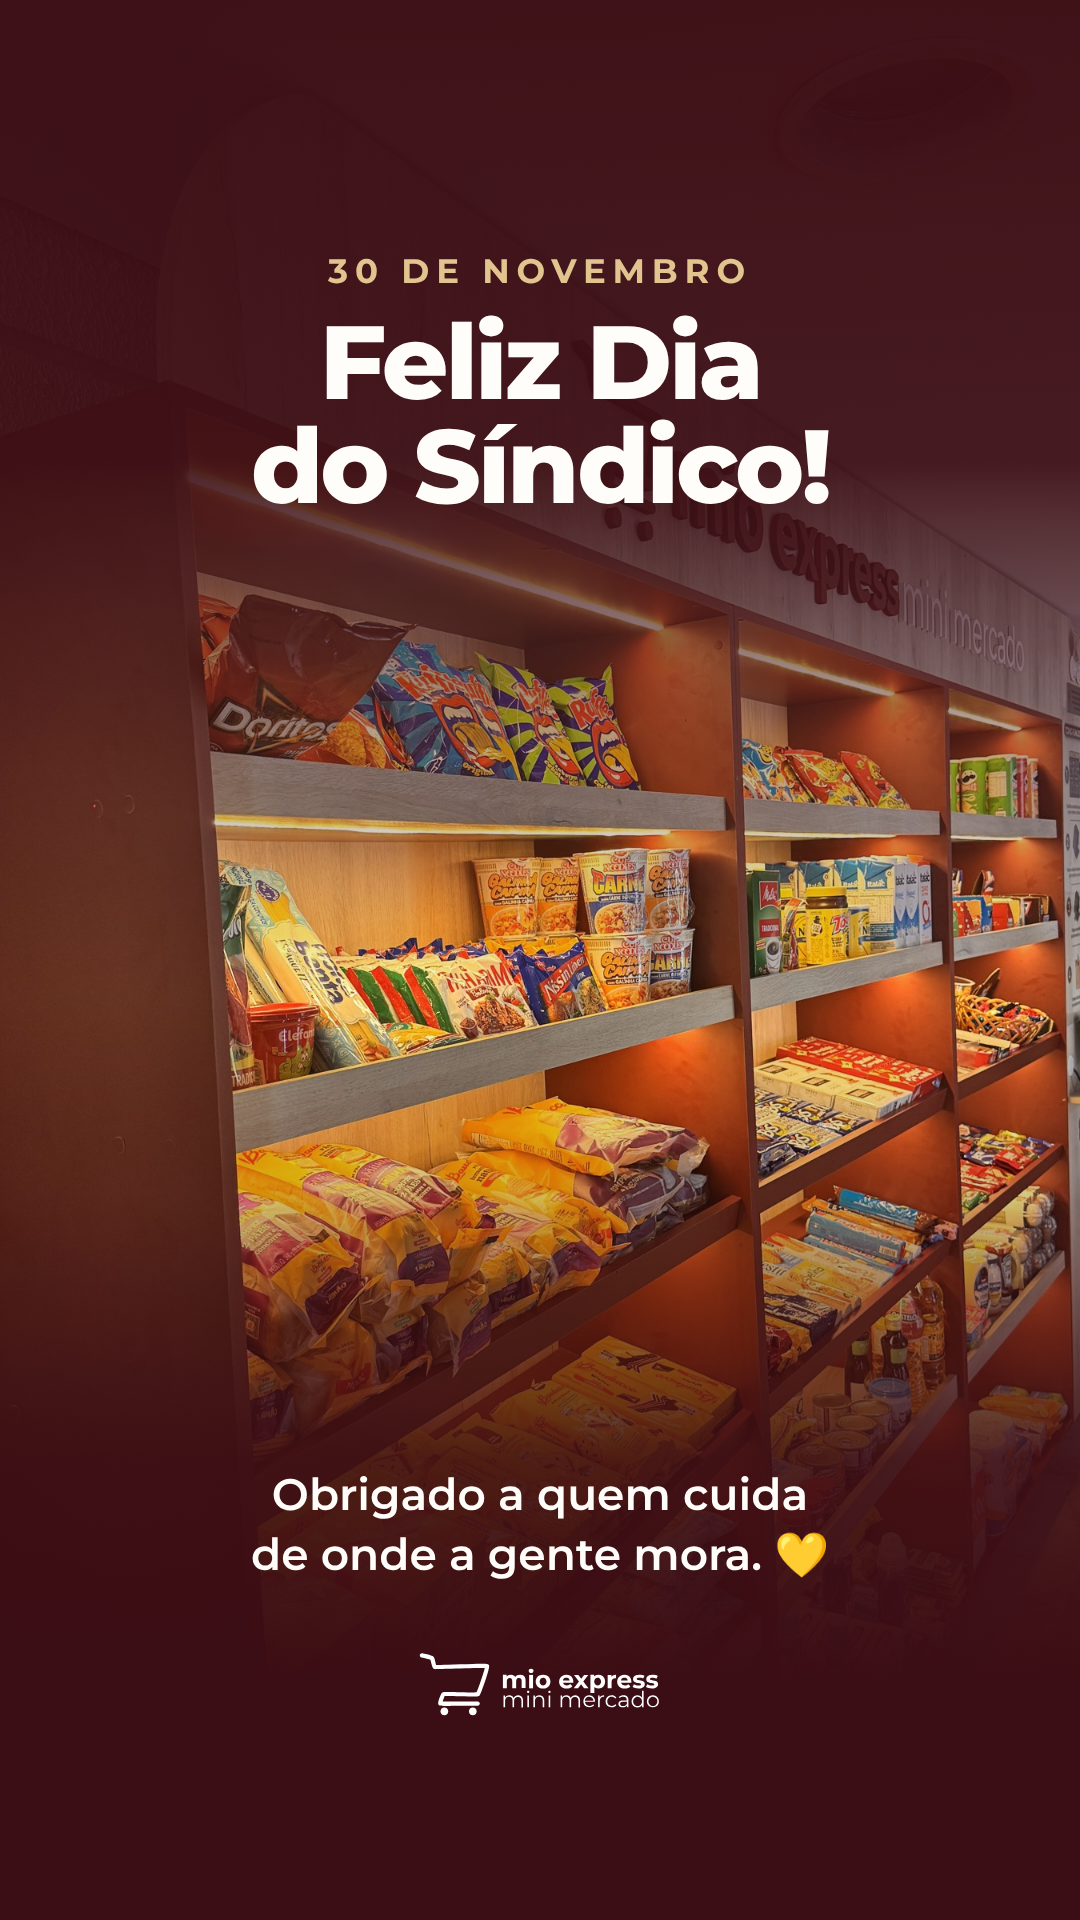
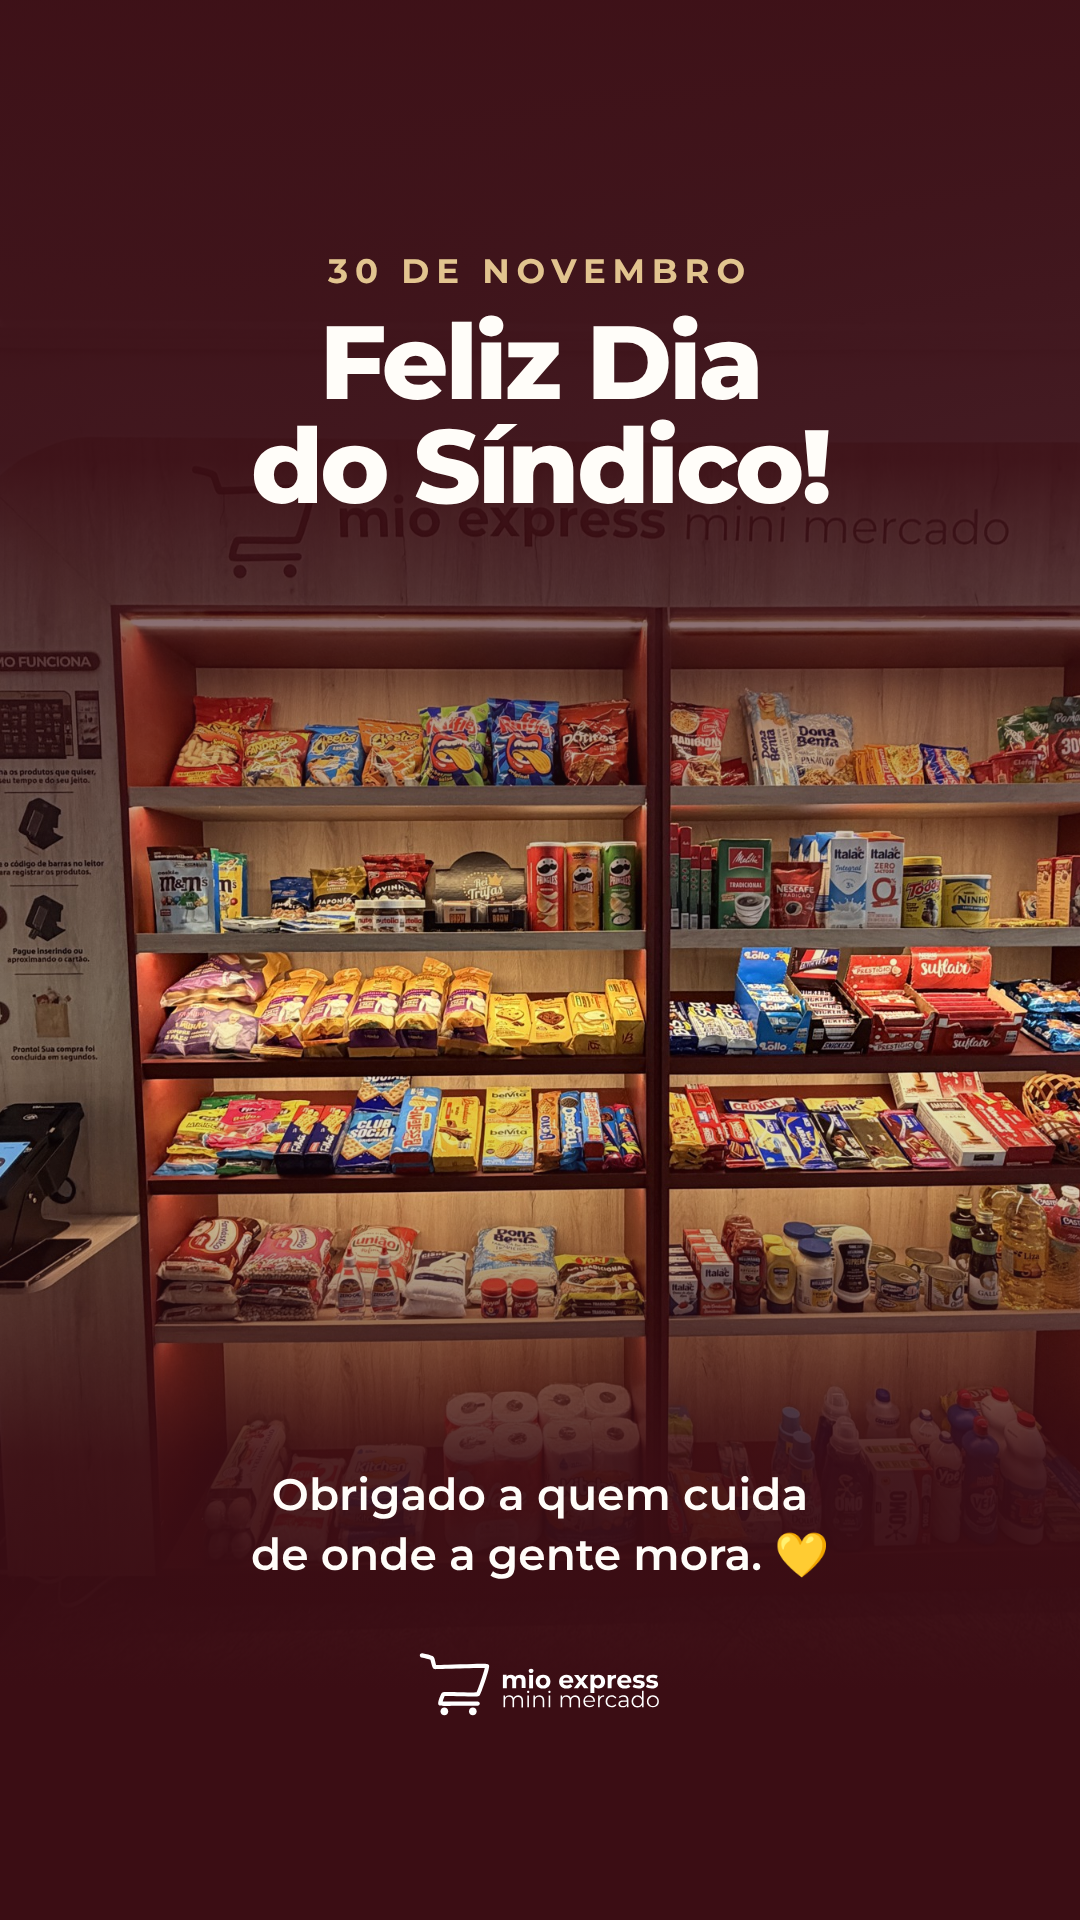
Dia do Síndico: armário mais alto na arte
Claude-Session: https://claude.ai/code/session_01CwP1brNtxaKT1mUQXiiAjA

diff --git a/marketing/posts/15-dia-do-sindico/.slide.html b/marketing/posts/15-dia-do-sindico/.slide.html
@@ -40,7 +40,7 @@ p.lead { font-size: 38px; line-height: 1.35; font-weight: 500; opacity: .88; }
 .ft2 { position: absolute; left: 0; right: 0; bottom: 0; height: 760px; background-size: cover; }
 .ft2::after { content: ""; position: absolute; inset: 0; background: linear-gradient(180deg, #3b0d14 0%, rgba(59,13,20,0) 28%, rgba(59,13,20,0) 70%, rgba(59,13,20,.85) 100%); }
 .ft.baixo::after { background: linear-gradient(180deg, rgba(59,13,20,.5) 0%, rgba(59,13,20,0) 18%, rgba(59,13,20,0) 32%, rgba(59,13,20,.88) 52%, rgba(59,13,20,.97) 70%, #3b0d14 100%); }
-</style><body><div class="s" style="color:#fffdf9"><div class="ft baixo" style="background-image:url(file:///home/user/mioexpress-site/assets/source/fotos/loja4-frente.jpg);background-position:50% 35%"></div>
+</style><body><div class="s" style="color:#fffdf9"><div class="ft baixo" style="background-image:url(file:///home/user/mioexpress-site/assets/source/fotos/loja4-frente.jpg);background-position:50% 78%;background-size:auto 1500px"></div>
         <div class="z mt-a" style="margin-bottom:110px"><p class="eyebrow" style="color:#e2c48f">30 de novembro</p>
         <h1 class="mt1" style="font-size:92px">Feliz Dia<br>do <em>Síndico!</em></h1>
         <p class="lead mt1">Obrigado a quem cuida do lugar<br>onde a gente mora, todos os dias.</p></div><div class="rodape"><img src="file:///home/user/mioexpress-site/public/brand/logo-white.svg"><span>@mioexpressbrasil</span></div></div></body>
